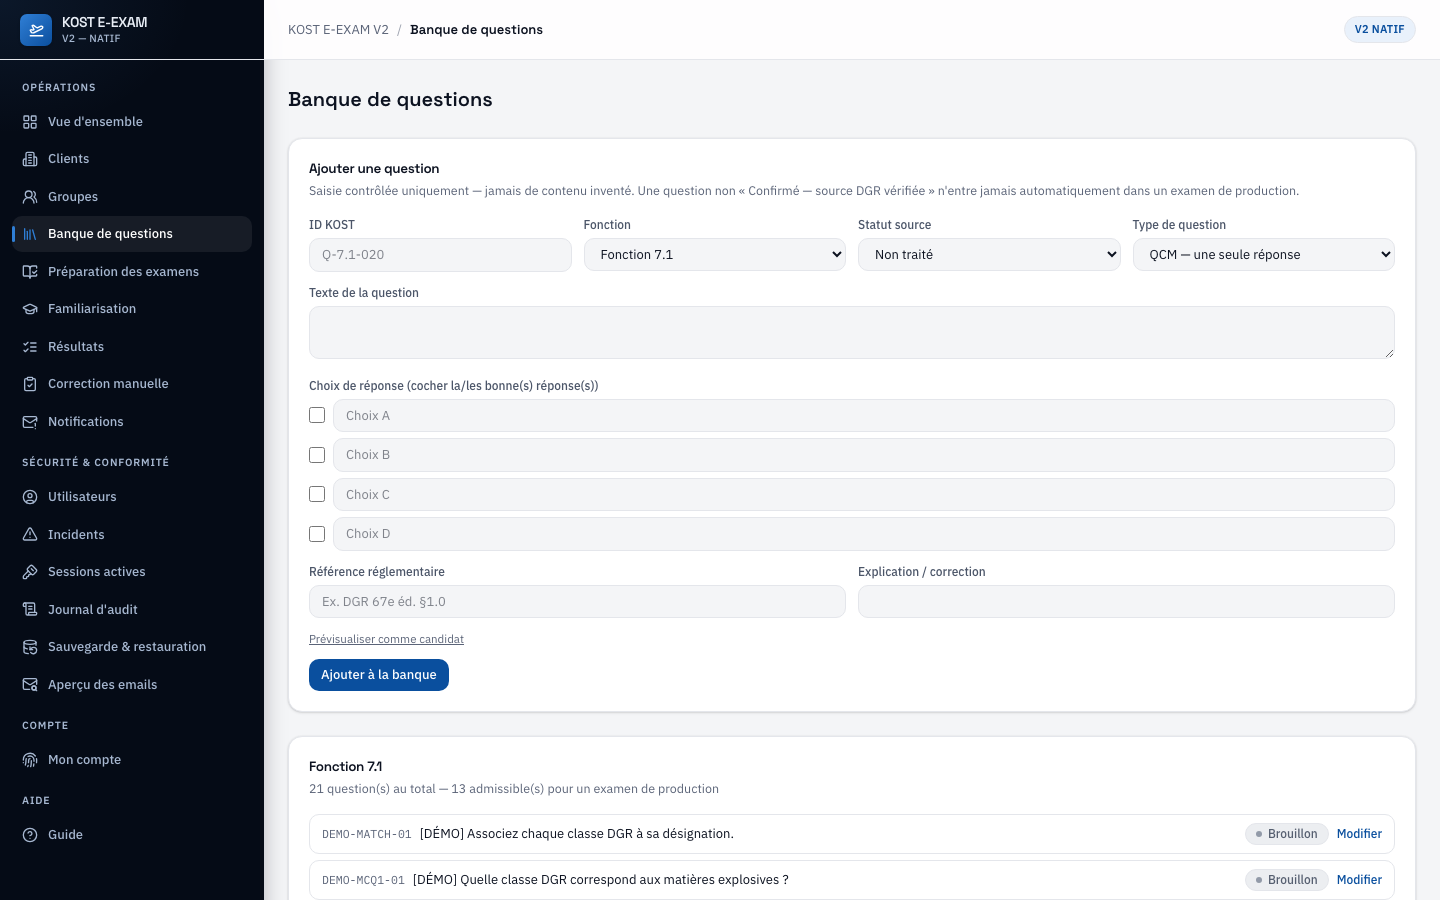
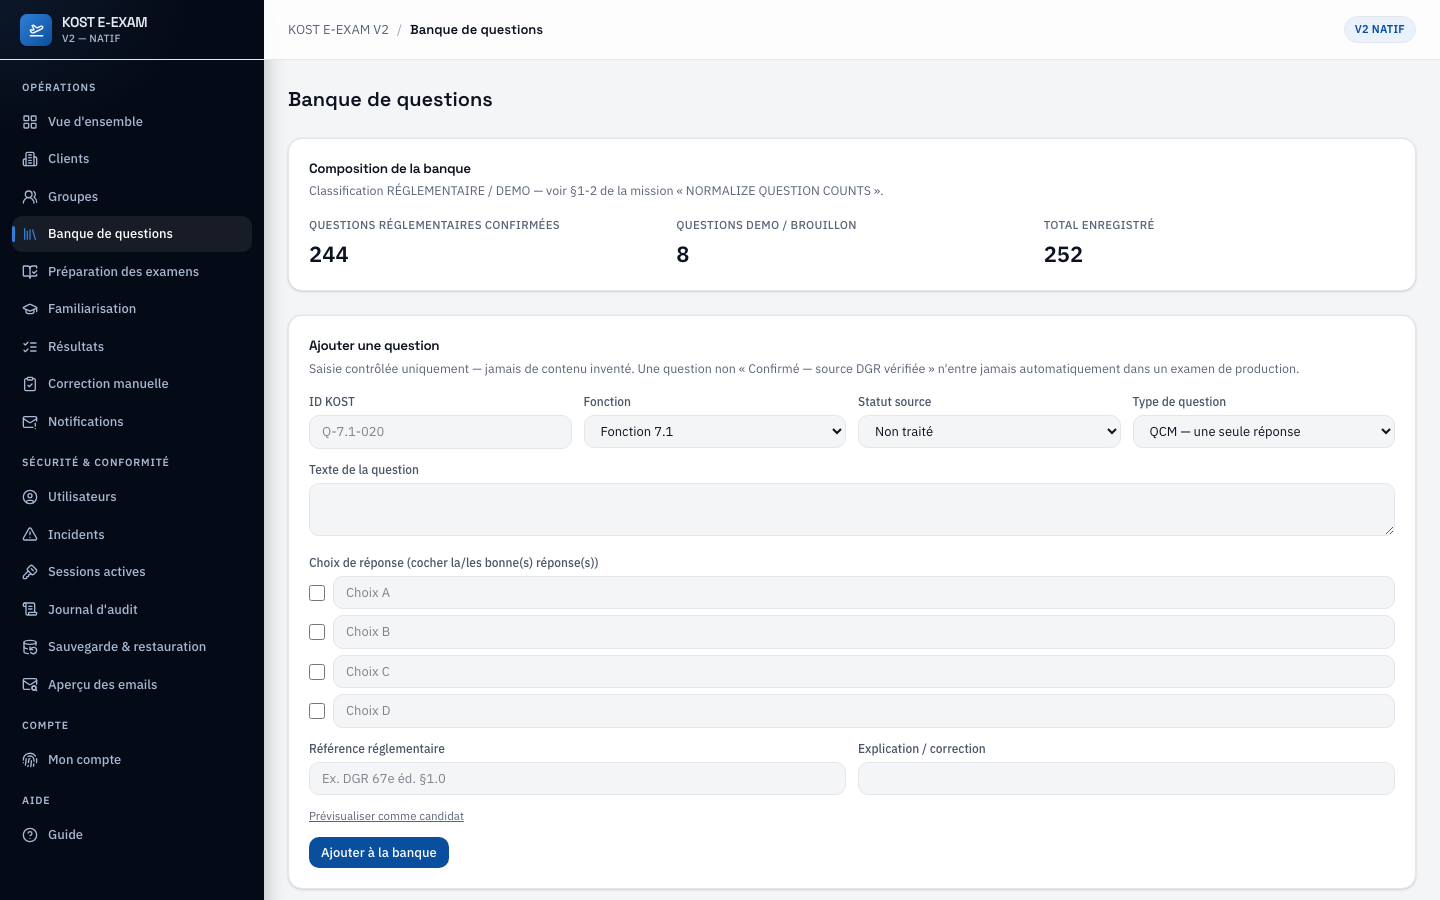
docs(kost-eexam-v2): refresh auditor screenshot pack after filters/question-count UX changes
Mission "REFRESH FINAL AUDITOR SCREENSHOT PACK AFTER ADMIN/CLIENT/
CANDIDATE UX IMPROVEMENTS" — updates the auditor demonstration pack
(docs/auditor-demo/) to match the real deployed UI after the recent
filters/question-count normalization work, not a wholesale re-run.

Fixed a broken selector in tests/staging/33-auditor-demo-screenshots.spec.ts
(Phase 2): /question-bank's row layout changed from
`div.flex.items-center.justify-between` cards to a `<table>` (mission
"COMPLETE MISSING FILTERS"), so the old selector for finding a real
regulatory question silently matched nothing — capture 08 would go
missing on any future full run. Now navigates
`?filterFunctionCode=7.1&filterClassification=regulatory` and targets
the first `<tr>`, avoiding both the stale selector and an alphabetical-
sort trap (DEMO-* sorts before Q-7.1-* unfiltered).

Re-ran Phase 2 (question bank) and Phase 6 (email/communications/audit/
MFA) in isolation against real staging — the only phases whose captured
pages actually changed. All other 24 screenshots left untouched; their
pages did not change. Each refreshed screenshot manually reviewed before
keeping (same discipline as the original capture): all clean, no PII,
no secrets, no broken UI. 08 and 29 came back byte-identical (same
question detail, same static MFA screen) — not restaged.

Screenshots refreshed: 07 (new 244/8/252 counters + full filter panel,
replacing the old per-function accordion), 09 (same page, counters now
[…]

diff --git a/platform-ops/kost-eexam-v2/tests/staging/33-auditor-demo-screenshots.spec.ts b/platform-ops/kost-eexam-v2/tests/staging/33-auditor-demo-screenshots.spec.ts
@@ -125,10 +125,17 @@ test("Phase 2 — Banque de questions et 8 types", async ({ page }) => {
 
   // Détail d'une question réglementaire réelle (Fonction 7.1) — preuve de
   // traçabilité source, jamais une question DEMO pour cet écran précis.
-  // Pas de <table> ni de filtre functionCode sur cette page (une carte par
-  // fonction, une ligne <div> par question) — cible directement une ligne
-  // réglementaire réelle (source vérifiée) et son lien "Modifier".
-  const firstRealQuestion = page.locator("div.flex.items-center.justify-between", { hasText: "Confirmé — source DGR vérifiée" }).first();
+  // Mission "COMPLETE MISSING FILTERS + NORMALIZE QUESTION COUNTS"
+  // (2026-08-30) : /question-bank est désormais un tableau filtrable à
+  // plat (compteurs réglementaire/DEMO/total + panneau de filtres),
+  // chaque question est une <tr>, plus une carte <div class=
+  // "flex items-center justify-between"> — l'ancien sélecteur ne matchait
+  // plus rien (silencieusement 0 résultat, capture manquante). Filtre
+  // explicitement Fonction=7.1 + Classification=Réglementaire pour cibler
+  // une ligne source-vérifiée sans dépendre de l'ordre alphabétique du
+  // tableau non filtré (où "DEMO-*" trie avant "Q-7.1-*").
+  await page.goto("/question-bank?filterFunctionCode=7.1&filterClassification=regulatory");
+  const firstRealQuestion = page.locator("table tbody tr").first();
   if ((await firstRealQuestion.count()) > 0) {
     await firstRealQuestion.getByRole("link", { name: /modifier/i }).click();
     await page.waitForURL(/\/question-bank\/\d+\/edit/);

diff --git a/platform-ops/kost-eexam-v2/docs/auditor-demo/SCREENSHOT_INDEX.md b/platform-ops/kost-eexam-v2/docs/auditor-demo/SCREENSHOT_INDEX.md
@@ -7,6 +7,8 @@
 
 Toutes les captures ont été revues manuellement une par une avant publication (secrets, jetons, PII, UI cassée, spinner, devtools, terminal — voir la colonne « Sûr pour auditeur »). Trois problèmes réels ont été trouvés et corrigés pendant cette revue (voir Notes des lignes 22, 26, 30, 11, 12) — aucun n'a modifié la banque réglementaire, l'historique de Brahimi, ni un compte réel au-delà d'une affectation d'examen démo interne.
 
+**Rafraîchi le 2026-08-30** (mission "COMPLETE MISSING FILTERS + NORMALIZE QUESTION COUNTS") : les captures 07/08/09 (`/question-bank`) et 28 (`/audit-logs`) ont été reprises après une refonte de ces deux pages (compteurs réglementaire/DEMO explicites, nouveaux panneaux de filtres). Les captures 26/27/29 ont été rafraîchies en même temps (même phase de test), sans changement de contenu attendu. Les 26 autres captures n'ont pas été retouchées — les pages concernées n'ont pas changé. Chaque capture rafraîchie a été re-revue manuellement (mêmes critères que ci-dessus) avant remplacement.
+
 | No. | Fichier | Route | Rôle | Objet | Sûr pour auditeur | Notes |
 |---|---|---|---|---|---|---|
 | 01 | `01-login.png` | `/login` | (public) | Écran de connexion, positionnement produit | ✅ | — |
@@ -15,7 +17,7 @@ Toutes les captures ont été revues manuellement une par une avant publication 
 | 04 | `04-create-user.png` | `/users/nouveau` | admin | Création de compte — Particulier | ✅ | Aucun mot de passe saisi par l'administrateur — activation par lien sécurisé uniquement. |
 | 05 | `05-company-group-assignment.png` | `/users/nouveau` | admin | Création de compte — Entreprise, affectation client/groupe | ✅ | — |
 | 06 | `06-user-detail.png` | `/users/[id]` | admin | Fiche candidat — identité, affectation, fonctions DGR | ✅ | Compte pilote étiqueté « (pilote) ». |
-| 07 | `07-question-bank.png` | `/question-bank` | admin | Banque de questions — saisie contrôlée, statut source | ✅ | Bandeau explicite : une question non « Confirmé — source DGR vérifiée » n'entre jamais automatiquement dans un examen de production. Questions `[DÉMO]` visibles en `Brouillon`. |
+| 07 | `07-question-bank.png` | `/question-bank` | admin | Banque de questions — compteurs réglementaire/DEMO, filtres, statut source | ✅ | Rafraîchi 2026-08-30 (mission "COMPLETE MISSING FILTERS + NORMALIZE QUESTION COUNTS") : compteurs explicites 244 réglementaires confirmées / 8 DEMO-brouillon / 252 au total (jamais un total unique), panneau de filtres complet. Bandeau explicite : une question non « Confirmé — source DGR vérifiée » n'entre jamais automatiquement dans un examen de production. |
 | 08 | `08-question-detail.png` | `/question-bank/[id]` | admin | Modification d'une question — versionnement immuable | ✅ | « Enregistrer crée une NOUVELLE version — les examens déjà publiés avec la version précédente ne sont jamais modifiés rétroactivement. » |
 | 09 | `09-eight-question-types.png` | `/question-bank` | admin | Formulaire d'auteurage — type Cas pratique / scénario | ✅ | Un des 8 types de question supportés par la banque. |
 | 10 | `10-exam-builder.png` | `/exam-preparation` | responsable pédagogique | Constructeur d'examen — 12 étapes, aperçu non publié | ✅ | — |
@@ -36,7 +38,7 @@ Toutes les captures ont été revues manuellement une par une avant publication 
 | 25 | `25-report-export.png` | `/mes-resultats` | candidat | Export PDF détaillé | ✅ | — |
 | 26 | `26-email-history.png` | `/notifications` | admin | Historique de livraison email — statut seul, jamais le contenu | ✅ | Corrigé le 2026-08-30 : l'historique réel ne contenait que l'email personnel de Brahimi et l'adresse propriétaire. Remplacé par une notification synthétique sur domaine de test réservé RFC 2606 (`example.test`), filtrée. Le statut `SUPPRESSED` démontre en prime le mécanisme `EMAIL_MODE=allowlist`. |
 | 27 | `27-user-communication.png` | `/users/[id]` (section Communications/Actions) | admin | Historique communications + actions compte | ✅ | Nom du candidat hors cadre dans cette capture — aucune identité visible. |
-| 28 | `28-audit-log.png` | `/audit-logs` | admin | Journal d'audit — insert-only, 300 événements récents | ✅ | Uniquement des identifiants de comptes staging synthétiques. |
+| 28 | `28-audit-log.png` | `/audit-logs` | admin | Journal d'audit — insert-only, filtrable (Date/Acteur/Rôle/Action/Recherche) | ✅ | Rafraîchi 2026-08-30 : nouveau panneau de filtres, valeurs Action tirées uniquement d'événements réellement observés. Uniquement des identifiants de comptes staging synthétiques. |
 | 29 | `29-mfa-security.png` | `/account` | responsable pédagogique | Authentification à deux facteurs — point d'entrée | ✅ | Aucun secret MFA affiché (ni QR, ni code TOTP, ni codes de récupération). |
 | 30 | `30-auditor-role.png` | `/results` (filtré) | auditeur | Rôle auditeur — même vue filtrée, accès lecture seule | ✅ | Même correctif que la ligne 22 — nav latérale « Conformité (lecture seule) » visible. |
 | 31 | `31-tenant-isolation.png` | `/companies` | auditeur | Isolation multi-tenant — plusieurs clients côte à côte | ✅ | Tous les tenants sont explicitement étiquetés Démo/Test/Production ; aucune donnée d'un tenant mélangée à un autre. |

diff --git a/platform-ops/kost-eexam-v2/docs/auditor-demo/KOST_EEXAM_V2_DEMONSTRATION_SCREENSHOTS.md b/platform-ops/kost-eexam-v2/docs/auditor-demo/KOST_EEXAM_V2_DEMONSTRATION_SCREENSHOTS.md
@@ -100,11 +100,11 @@
 
 **Capture :** `07-question-bank.png`
 
-**Ce que l'auditeur voit :** Formulaire d'ajout de question avec un bandeau explicite : « Saisie contrôlée uniquement — jamais de contenu inventé. Une question non « Confirmé — source DGR vérifiée » n'entre jamais automatiquement dans un examen de production. » En dessous, la liste des questions de la Fonction 7.1 avec leur statut (« Brouillon » pour les questions `[DÉMO]`), et le compteur « 21 question(s) au total — 13 admissible(s) pour un examen de production ».
+**Ce que l'auditeur voit :** Trois compteurs explicites en tête de page — « Questions réglementaires confirmées : 244 », « Questions DEMO / brouillon : 8 », « Total enregistré : 252 » — puis le formulaire d'ajout de question avec un bandeau explicite : « Saisie contrôlée uniquement — jamais de contenu inventé. Une question non « Confirmé — source DGR vérifiée » n'entre jamais automatiquement dans un examen de production. » En dessous, un panneau de filtres complet (Fonction DGR, Type de question, Statut source, Statut reviewer, Classification réglementaire/DEMO, Statut actif/inactif, recherche) au-dessus du tableau des questions, chaque ligne portant son statut source, son statut reviewer et son badge de classification.
 
-**Ce que dit le propriétaire :** « Le statut source d'une question est visible partout, et le moteur d'examen applique cette règle lui-même — ce n'est pas qu'un texte d'interface, c'est une porte structurelle côté serveur. »
+**Ce que dit le propriétaire :** « Le statut source d'une question est visible partout, et le moteur d'examen applique cette règle lui-même — ce n'est pas qu'un texte d'interface, c'est une porte structurelle côté serveur. Les compteurs distinguent maintenant explicitement le réglementaire du DEMO — jamais un total unique qui laisserait croire que les 252 lignes sont toutes des questions officielles. »
 
-**Point de conformité technique :** `lib/questions.ts::isAdmissibleWhereClause()` exige `source_status = 'FROZEN_SOURCE_VERIFIED' AND reviewer_status != 'REJECTED'` — vérifié même en mode de sélection manuelle des questions (`lib/assessments.ts::createAssessmentDraft`), jamais contournable depuis l'interface.
+**Point de conformité technique :** `lib/questions.ts::isAdmissibleWhereClause()` exige `source_status = 'FROZEN_SOURCE_VERIFIED' AND reviewer_status != 'REJECTED'` — vérifié même en mode de sélection manuelle des questions (`lib/assessments.ts::createAssessmentDraft`), jamais contournable depuis l'interface. La classification réglementaire/DEMO (`lib/questions.ts::isDemoQuestionId`) se fie au préfixe `DEMO-` de l'identifiant, jamais au seul `source_status` — une vraie question réglementaire encore en cours de vérification (`DRAFT`/`PARTIAL`/etc.) n'est jamais confondue avec un exemple créé pour tester les 8 types de question.
 
 **Ce qu'il ne faut pas prétendre :** « Confirmé — source DGR vérifiée » signifie que le **texte source** a été vérifié — cela ne signifie pas qu'un réviseur qualifié a **approuvé** la question (`reviewer_status`, champ distinct — voir l'avertissement en tête de dossier).
 
@@ -400,11 +400,11 @@
 
 **Capture :** `28-audit-log.png`
 
-**Ce que l'auditeur voit :** Journal d'audit (« 300 événement(s) récent(s) — Insert-only — aucune modification possible, même par un administrateur ») : horodatage, acteur, rôle, action, cible, résultat pour chaque événement (connexions, créations de compte, envois d'invitation, démarrages de tentative, affectations d'examen).
+**Ce que l'auditeur voit :** Un panneau de filtres (Du/Au, Acteur, Rôle, Action, recherche libre) au-dessus du journal d'audit (« 300 événement(s) — Insert-only — aucune modification possible, même par un administrateur ») : horodatage, acteur, rôle, action, cible, résultat pour chaque événement (connexions, créations de compte, envois d'invitation, démarrages de tentative, affectations d'examen). Le filtre Action ne propose que des valeurs réellement observées dans le journal — jamais une liste inventée.
 
-**Ce que dit le propriétaire :** « Chaque action significative est journalisée de façon irréversible — même un administrateur ne peut pas modifier ou supprimer une entrée du journal. »
+**Ce que dit le propriétaire :** « Chaque action significative est journalisée de façon irréversible — même un administrateur ne peut pas modifier ou supprimer une entrée du journal. Le journal est maintenant filtrable par date, acteur, rôle et type d'action — un auditeur peut isoler précisément ce qu'il cherche sans avoir à parcourir des centaines de lignes. »
 
-**Point de conformité technique :** Journal insert-only au niveau base de données — pas seulement une convention applicative.
+**Point de conformité technique :** Journal insert-only au niveau base de données — pas seulement une convention applicative. Les filtres (`lib/audit.ts::listAuditLogsFiltered`) n'ajoutent que des clauses `WHERE` en lecture ; aucune route de modification/suppression n'existe pour cette table.
 
 **Ce qu'il ne faut pas prétendre :** —
 

diff --git a/platform-ops/kost-eexam-v2/docs/auditor-demo/KOST_EEXAM_V2_DEMO_FULL.md b/platform-ops/kost-eexam-v2/docs/auditor-demo/KOST_EEXAM_V2_DEMO_FULL.md
@@ -30,8 +30,8 @@ Identité, affectation, fonctions DGR centralisées sur une seule fiche.
 
 ### Partie 2 — Banque de questions
 
-**§7. Ajout de question — statut source** (`07-question-bank.png`)
-Porte d'admissibilité expliquée à l'écran ; 13/21 questions admissibles pour la Fonction 7.1 au moment de la capture.
+**§7. Ajout de question — statut source, compteurs, filtres** (`07-question-bank.png`)
+Compteurs explicites en tête de page (244 réglementaires confirmées / 8 DEMO-brouillon / 252 au total — jamais un total unique présenté comme réglementaire), porte d'admissibilité expliquée à l'écran, panneau de filtres complet (Fonction/Type/Statut source/Statut reviewer/Classification/Statut/Recherche).
 
 **§8. Modification — versionnement immuable** (`08-question-detail.png`)
 Éditer une question crée une nouvelle version ; les examens déjà publiés restent figés.
@@ -101,8 +101,8 @@ Statut de livraison uniquement, jamais le contenu ; `EMAIL_MODE=allowlist` démo
 **§27. Communications et actions compte** (`27-user-communication.png`)
 Historique de statut de livraison, actions administratives, blocage motivé de la suppression définitive.
 
-**§28. Journal d'audit** (`28-audit-log.png`)
-300 événements récents, insert-only — aucune modification possible même par un administrateur.
+**§28. Journal d'audit — filtrable** (`28-audit-log.png`)
+300 événements, insert-only — aucune modification possible même par un administrateur. Filtrable par date, acteur, rôle et action (valeurs réellement observées uniquement).
 
 **§29. Sécurité — MFA** (`29-mfa-security.png`)
 Authentification à deux facteurs TOTP standard disponible pour les comptes à privilèges.

diff --git a/platform-ops/kost-eexam-v2/docs/auditor-demo/KOST_EEXAM_V2_DEMO_SHORT.md b/platform-ops/kost-eexam-v2/docs/auditor-demo/KOST_EEXAM_V2_DEMO_SHORT.md
@@ -21,7 +21,7 @@ Séquence resserrée pour une présentation en direct à un auditeur, construite
 
 ## 3. Banque de questions et statut source (≈3 min)
 
-**`07-question-bank.png`** — Formulaire de saisie contrôlée, bandeau explicite sur l'admissibilité, compteur de questions admissibles pour publication.
+**`07-question-bank.png`** — Compteurs explicites (244 réglementaires confirmées / 8 DEMO-brouillon / 252 au total), formulaire de saisie contrôlée, bandeau explicite sur l'admissibilité, filtres (Fonction/Type/Statut/Classification/Recherche).
 
 *À dire :* « Une question non confirmée côté source ne peut structurellement jamais entrer dans un examen de production — c'est vérifié côté serveur, pas seulement affiché. » *(Point à approfondir si l'auditeur pose la question : montrer la distinction source vérifiée / revue humaine.)*
 
